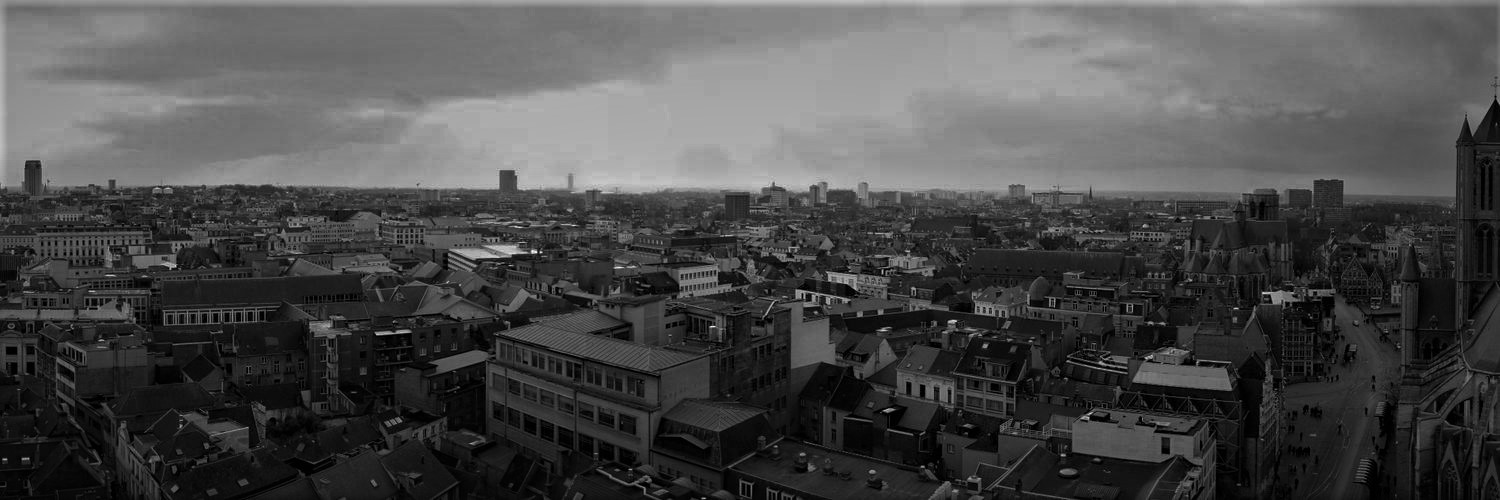
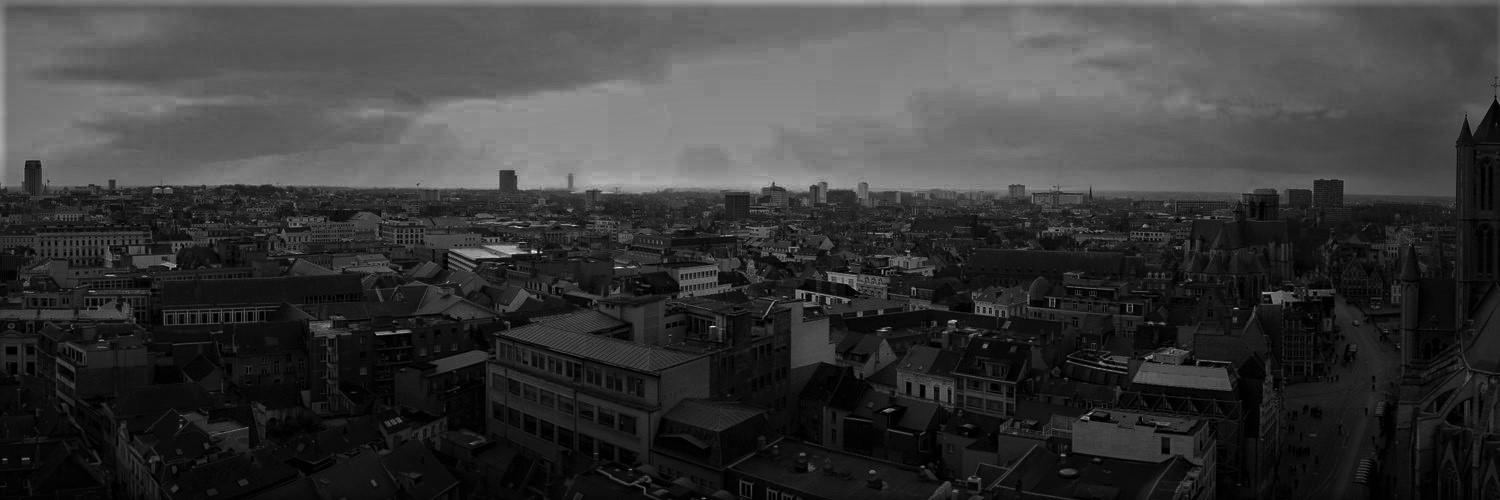
update

diff --git a/index.html b/index.html
@@ -6,7 +6,7 @@
 -->
 <html>
 <head>
-    <title>Lucas Sterckx | Researcher </title>
+    <title>Lucas Sterckx</title>
     <meta charset="utf-8" />
     <meta name="viewport" content="width=device-width, initial-scale=1" />
     <link rel="stylesheet" href="assets/css/main.css" />
@@ -49,7 +49,7 @@
     <!-- Banner -->
     <section id="banner">
         <h2>Lucas Sterckx</h2>
-        <p>Researcher</p>
+        <p>Research Scientist</p>
     </section>
     
     <!-- About Me -->
@@ -87,10 +87,17 @@
             <h3>Publications</h3>
             <p></p>
 
+            <h4>Overly Optimistic Prediction Results on Imbalanced Data: Flaws and Benefits of Applying Over-sampling</h4>
+            <h5>G. Vandewiele, I. Dehaene, G. Kovacs, L. Sterckx, O. Janssens, F. Ongenae, F. De Backere</h5> 
+            <h5>F. De Turck, K. Roelens, J. Decruyenaere, S. Van Hoecke and T. Demeester</h5>
+            <h5>Arxiv</h5>
+            <a href="https://arxiv.org/pdf/2001.06296.pdf">pdf</a>, <a href="https://github.com/GillesVandewiele/EHG-Oversampling">code</a>
+            <p></p>
+            
             <h4>A Self-Training Approach for Short Text Clustering</h4>
             <h5>A. Hadifar, L. Sterckx, T. Demeester and C. Develder</h5>
             <h5>REPL4NLP at ACL 2019</h5>
-            <a href="http://users.atlantis.ugent.be/cdvelder/papers/2019/hadifar2019repl4nlp.pdf">pdf</a> 
+            <a href="https://www.aclweb.org/anthology/W19-4322.pdf">pdf</a>, <a href="https://github.com/hadifar/stc_clustering">code</a> 
             <p></p>
 
             <h4>Prior Attention for Style-aware Sequence-to-Sequence Models</h4>
@@ -142,7 +149,7 @@
             <h4>Topical Word Importance for Fast Keyphrase Extraction</h4>
             <h5>L. Sterckx, T. Demeester, J. Deleu and C. Develder</h5>
             <h5>WWW 2015 (Poster Session)</h5>
-            <a href="papers/sterckx2015wwwb.pdf">pdf</a>, <a href="papers/wwwposter_1.pdf">poster</a>
+            <a href="papers/sterckx2015wwwb.pdf">pdf</a>, <a href="papers/wwwposter_1.pdf">poster</a>, <a href="https://github.com/boudinfl/pke">code (by Florian Boudin)</a>
             
             <p></p>
             <h4>When Topic Models Disagree: Keyphrase Extraction with Multiple Topic Models</h4>
@@ -171,7 +178,7 @@
             
         </section>
         <hr> 
-        <!-- thesis -->
+        <!-- Reports -->
         <section id="reports" class="wrapper ">
             <h3>Reports</h3>
             <h4>An Evaluation of Neural Network Models for Toxic Comment Classification</h4>
@@ -197,7 +204,7 @@
 
             <h4>Information Extraction from Medical Notes for Early Birth Risk Prediction</h4>
             <h5>12th Belgium NLP Meetup - December 2019</h5>
-            <a href="mailto:lucassterckx@gmail.com">slides</a> (available on request)
+            <a href="mailto:lucassterckx@gmail.com">slides</a> (on request)
             <p></p>
          
             <h4>Knowledge Base Population from Text and Graphs</h4>
@@ -221,6 +228,7 @@
             
             <ul class="copyright">
                 <li>&copy; Lucas Sterckx</li>
+                <li>Powered by Jekyll on Github</li>
                 <li>&copy; Banner image by Thomas Demeester</li>
                 <li>Design: <a href="http://templated.co">TEMPLATED</a></li>
             </ul>

diff --git a/assets/css/main.css b/assets/css/main.css
@@ -59,8 +59,11 @@
 	/* Containers */
 
 	.container {
+		max-width: 960px;
+		width: 960px;
 		margin-left: 20%;
 		margin-right: 20%;
+		width: 60%;
 	}
 
 	.container.\31 25\25 {
@@ -81,9 +84,6 @@
 		width: 60%;
 	}
 
-	.container {
-		width: 60%;
-	}
 
 
 
@@ -1522,7 +1522,7 @@
 
 	a {
 		text-decoration: underline;
-		color: #f32853;
+		color: #001a66;
 	}
 
 	a:hover {
@@ -2302,7 +2302,7 @@
 
 	ul.icons li {
 		display: inline-block;
-		padding: 0 1em 0 0;
+		padding: 0 0.1em 0 0;
 	}
 
 	ul.icons li:last-child {
@@ -2614,7 +2614,7 @@
 
 	.wrapper.style3 {
 		background-attachment: fixed;
-		background-image: url("../../images/overlay.png"), url("../../images/banner.jpg");
+		background-image: url(../../images/overlay.jpg), url(../../images/gentorig.jpg);
 		background-position: center center;
 		background-size: cover;
 	}
@@ -2727,6 +2727,11 @@
 
 	#header nav ul li a:hover {
 		color: #484848;
+		text-decoration: underline;
+	}
+
+	#header .icons a:hover {
+		text-decoration: none;
 	}
 
 	#header nav ul li:first-child {
@@ -2971,7 +2976,7 @@
 	#banner {
 		padding: 1em 0 1em 0;
 		/*background-attachment: fixed;*/
-		background-image: url(../../images/overlay.png), url(../../images/gentorig.jpg);
+		background-image: url(../../images/gentorig.jpg), url(../../images/gentorig.jpg);
 		background-position: 50% 60%;
 		/* background-position: center top; */
 		background-size: cover;
